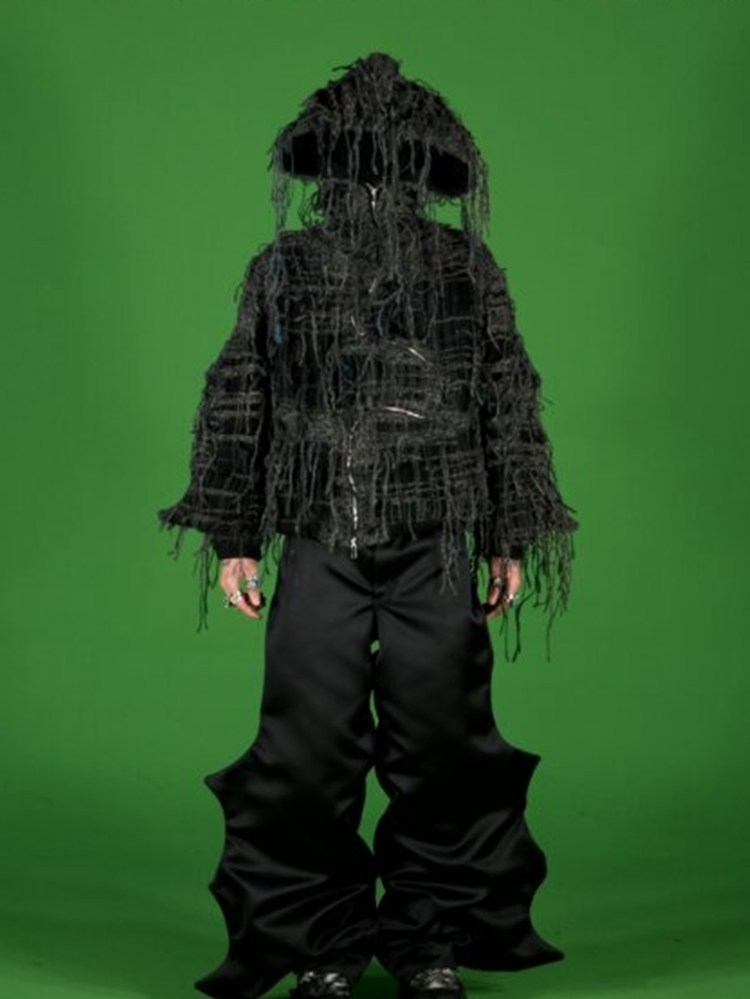
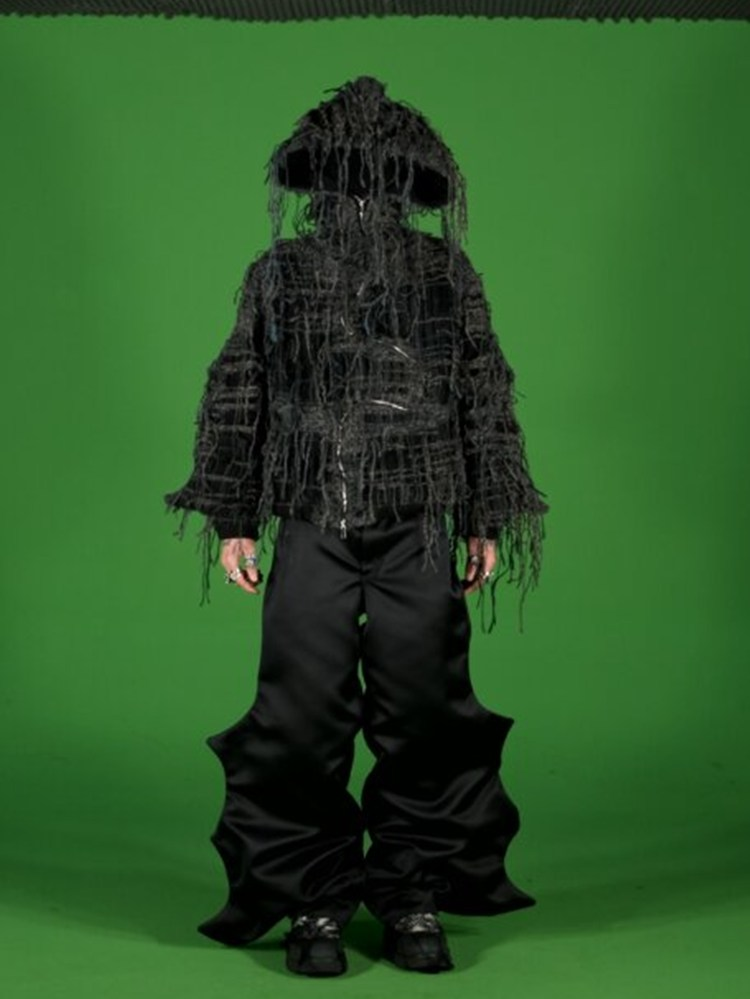
Corrige le vrai recadrage VGTHM, détoure 7 photos couture/aéro, ajuste la lightbox
- Le recadrage précédent des 5 tenues VGTHM coupait les pieds (mesure
  de la position du sujet fausse sur t4/t5, à une distance caméra
  différente des trois premières). Remesuré précisément sur les
  images originales (récupérées depuis git) et recadré à nouveau :
  les 5 tenues montrent maintenant le corps entier avec marge.
- Détouré les 7 photos couture/aéro qui avaient un vrai fond blanc
  studio (pas un bug CSS) : piece1,2,3,7,8,9,10. Vérifié pixel par
  pixel qu'aucun trou n'a été percé dans les vêtements (y compris les
  deux pièces claires, plus à risque) avant de remplacer les JPG par
  des PNG détourés. Les 3 photos sur fond noir (4,5,6) restent
  inchangées.
- bag_cutout.png et sac_a_dos.png étaient la même pièce en double
  (une capture Photoshop plus ancienne, moins propre) — gardé
  seulement sac_a_dos.png.
- Lightbox : cliquer n'immobilise plus l'ouverture — bouger la souris
  ferme maintenant aussi bien après un clic qu'après un survol.
  Remis la carte de présentation claire une fois zoomé sur un
  détourage (armes, sacoches, pièces aéro), tout en gardant les
  rangées de défilement entièrement transparentes tant qu'on n'a pas
  cliqué — c'est la distinction que je n'avais pas bien saisie avant.

Changed region(s): [[0.0, 0.0, 1.0, 1.0]]

diff --git a/index.html b/index.html
@@ -224,13 +224,11 @@
             <button class="marquee-item contain" data-src="assets/vgtape/arme1.png"><img src="assets/vgtape/arme1.png" alt=""></button>
             <button class="marquee-item contain" data-src="assets/vgtape/cd_cover.png"><img src="assets/vgtape/cd_cover.png" alt=""></button>
             <button class="marquee-item contain" data-src="assets/vgtape/sac_a_dos.png"><img src="assets/vgtape/sac_a_dos.png" alt=""></button>
-            <button class="marquee-item contain" data-src="assets/vgtape/bag_cutout.png"><img src="assets/vgtape/bag_cutout.png" alt=""></button>
             <button class="marquee-item contain" data-src="assets/vgtape/cd_disc.png"><img src="assets/vgtape/cd_disc.png" alt=""></button>
             <button class="marquee-item contain" data-src="assets/vgtape/arme2.png"><img src="assets/vgtape/arme2.png" alt=""></button>
             <button class="marquee-item contain" data-src="assets/vgtape/arme1.png"><img src="assets/vgtape/arme1.png" alt=""></button>
             <button class="marquee-item contain" data-src="assets/vgtape/cd_cover.png"><img src="assets/vgtape/cd_cover.png" alt=""></button>
             <button class="marquee-item contain" data-src="assets/vgtape/sac_a_dos.png"><img src="assets/vgtape/sac_a_dos.png" alt=""></button>
-            <button class="marquee-item contain" data-src="assets/vgtape/bag_cutout.png"><img src="assets/vgtape/bag_cutout.png" alt=""></button>
             <button class="marquee-item contain" data-src="assets/vgtape/cd_disc.png"><img src="assets/vgtape/cd_disc.png" alt=""></button>
             <button class="marquee-item contain" data-src="assets/vgtape/arme2.png"><img src="assets/vgtape/arme2.png" alt=""></button>
           </div>
@@ -307,23 +305,23 @@
           <div class="marquee-track">
             <button class="marquee-item contain" data-src="assets/aerovrac/piece11.png"><img src="assets/aerovrac/piece11.png" alt=""></button>
             <button class="marquee-item" data-src="assets/aerovrac/piece4.jpg"><img src="assets/aerovrac/piece4.jpg" alt=""></button>
-            <button class="marquee-item" data-src="assets/aerovrac/piece1.jpg"><img src="assets/aerovrac/piece1.jpg" alt=""></button>
+            <button class="marquee-item contain" data-src="assets/aerovrac/piece1.png"><img src="assets/aerovrac/piece1.png" alt=""></button>
             <button class="marquee-item contain" data-src="assets/aerovrac/piece18.png"><img src="assets/aerovrac/piece18.png" alt=""></button>
-            <button class="marquee-item" data-src="assets/aerovrac/piece2.jpg"><img src="assets/aerovrac/piece2.jpg" alt=""></button>
-            <button class="marquee-item" data-src="assets/aerovrac/piece7.jpg"><img src="assets/aerovrac/piece7.jpg" alt=""></button>
+            <button class="marquee-item contain" data-src="assets/aerovrac/piece2.png"><img src="assets/aerovrac/piece2.png" alt=""></button>
+            <button class="marquee-item contain" data-src="assets/aerovrac/piece7.png"><img src="assets/aerovrac/piece7.png" alt=""></button>
             <button class="marquee-item contain" data-src="assets/aerovrac/piece13.png"><img src="assets/aerovrac/piece13.png" alt=""></button>
             <button class="marquee-item contain" data-src="assets/aerovrac/piece20.png"><img src="assets/aerovrac/piece20.png" alt=""></button>
-            <button class="marquee-item" data-src="assets/aerovrac/piece3.jpg"><img src="assets/aerovrac/piece3.jpg" alt=""></button>
+            <button class="marquee-item contain" data-src="assets/aerovrac/piece3.png"><img src="assets/aerovrac/piece3.png" alt=""></button>
             <button class="marquee-item contain" data-src="assets/aerovrac/piece17.png"><img src="assets/aerovrac/piece17.png" alt=""></button>
             <button class="marquee-item contain" data-src="assets/aerovrac/piece11.png"><img src="assets/aerovrac/piece11.png" alt=""></button>
             <button class="marquee-item" data-src="assets/aerovrac/piece4.jpg"><img src="assets/aerovrac/piece4.jpg" alt=""></button>
-            <button class="marquee-item" data-src="assets/aerovrac/piece1.jpg"><img src="assets/aerovrac/piece1.jpg" alt=""></button>
+            <button class="marquee-item contain" data-src="assets/aerovrac/piece1.png"><img src="assets/aerovrac/piece1.png" alt=""></button>
             <button class="marquee-item contain" data-src="assets/aerovrac/piece18.png"><img src="assets/aerovrac/piece18.png" alt=""></button>
-            <button class="marquee-item" data-src="assets/aerovrac/piece2.jpg"><img src="assets/aerovrac/piece2.jpg" alt=""></button>
-            <button class="marquee-item" data-src="assets/aerovrac/piece7.jpg"><img src="assets/aerovrac/piece7.jpg" alt=""></button>
+            <button class="marquee-item contain" data-src="assets/aerovrac/piece2.png"><img src="assets/aerovrac/piece2.png" alt=""></button>
+            <button class="marquee-item contain" data-src="assets/aerovrac/piece7.png"><img src="assets/aerovrac/piece7.png" alt=""></button>
             <button class="marquee-item contain" data-src="assets/aerovrac/piece13.png"><img src="assets/aerovrac/piece13.png" alt=""></button>
             <button class="marquee-item contain" data-src="assets/aerovrac/piece20.png"><img src="assets/aerovrac/piece20.png" alt=""></button>
-            <button class="marquee-item" data-src="assets/aerovrac/piece3.jpg"><img src="assets/aerovrac/piece3.jpg" alt=""></button>
+            <button class="marquee-item contain" data-src="assets/aerovrac/piece3.png"><img src="assets/aerovrac/piece3.png" alt=""></button>
             <button class="marquee-item contain" data-src="assets/aerovrac/piece17.png"><img src="assets/aerovrac/piece17.png" alt=""></button>
           </div>
         </div>
@@ -332,23 +330,23 @@
             <button class="marquee-item contain" data-src="assets/aerovrac/piece12.png"><img src="assets/aerovrac/piece12.png" alt=""></button>
             <button class="marquee-item" data-src="assets/aerovrac/piece5.jpg"><img src="assets/aerovrac/piece5.jpg" alt=""></button>
             <button class="marquee-item contain" data-src="assets/aerovrac/piece14.png"><img src="assets/aerovrac/piece14.png" alt=""></button>
-            <button class="marquee-item" data-src="assets/aerovrac/piece8.jpg"><img src="assets/aerovrac/piece8.jpg" alt=""></button>
+            <button class="marquee-item contain" data-src="assets/aerovrac/piece8.png"><img src="assets/aerovrac/piece8.png" alt=""></button>
             <button class="marquee-item contain" data-src="assets/aerovrac/piece15.png"><img src="assets/aerovrac/piece15.png" alt=""></button>
-            <button class="marquee-item" data-src="assets/aerovrac/piece9.jpg"><img src="assets/aerovrac/piece9.jpg" alt=""></button>
+            <button class="marquee-item contain" data-src="assets/aerovrac/piece9.png"><img src="assets/aerovrac/piece9.png" alt=""></button>
             <button class="marquee-item contain" data-src="assets/aerovrac/piece19.png"><img src="assets/aerovrac/piece19.png" alt=""></button>
             <button class="marquee-item" data-src="assets/aerovrac/piece6.jpg"><img src="assets/aerovrac/piece6.jpg" alt=""></button>
             <button class="marquee-item contain" data-src="assets/aerovrac/piece16.png"><img src="assets/aerovrac/piece16.png" alt=""></button>
-            <button class="marquee-item" data-src="assets/aerovrac/piece10.jpg"><img src="assets/aerovrac/piece10.jpg" alt=""></button>
+            <button class="marquee-item contain" data-src="assets/aerovrac/piece10.png"><img src="assets/aerovrac/piece10.png" alt=""></button>
             <button class="marquee-item contain" data-src="assets/aerovrac/piece12.png"><img src="assets/aerovrac/piece12.png" alt=""></button>
             <button class="marquee-item" data-src="assets/aerovrac/piece5.jpg"><img src="assets/aerovrac/piece5.jpg" alt=""></button>
             <button class="marquee-item contain" data-src="assets/aerovrac/piece14.png"><img src="assets/aerovrac/piece14.png" alt=""></button>
-            <button class="marquee-item" data-src="assets/aerovrac/piece8.jpg"><img src="assets/aerovrac/piece8.jpg" alt=""></button>
+            <button class="marquee-item contain" data-src="assets/aerovrac/piece8.png"><img src="assets/aerovrac/piece8.png" alt=""></button>
             <button class="marquee-item contain" data-src="assets/aerovrac/piece15.png"><img src="assets/aerovrac/piece15.png" alt=""></button>
-            <button class="marquee-item" data-src="assets/aerovrac/piece9.jpg"><img src="assets/aerovrac/piece9.jpg" alt=""></button>
+            <button class="marquee-item contain" data-src="assets/aerovrac/piece9.png"><img src="assets/aerovrac/piece9.png" alt=""></button>
             <button class="marquee-item contain" data-src="assets/aerovrac/piece19.png"><img src="assets/aerovrac/piece19.png" alt=""></button>
             <button class="marquee-item" data-src="assets/aerovrac/piece6.jpg"><img src="assets/aerovrac/piece6.jpg" alt=""></button>
             <button class="marquee-item contain" data-src="assets/aerovrac/piece16.png"><img src="assets/aerovrac/piece16.png" alt=""></button>
-            <button class="marquee-item" data-src="assets/aerovrac/piece10.jpg"><img src="assets/aerovrac/piece10.jpg" alt=""></button>
+            <button class="marquee-item contain" data-src="assets/aerovrac/piece10.png"><img src="assets/aerovrac/piece10.png" alt=""></button>
           </div>
         </div>
         <p class="carousel-count mono" style="margin-top:2px;">Survoler une photo pour l'agrandir</p>

diff --git a/js/marquee-lightbox.js b/js/marquee-lightbox.js
@@ -15,7 +15,6 @@ function initMarqueeLightbox() {
   var currentTrack = null;
   var closeTimer = null;
   var openTimer = null;
-  var pinned = false; // true once opened by click/tap: only closes via explicit close
 
   function isCutout(item) {
     return item.contain && /\.png($|\?)/i.test(item.src);
@@ -49,7 +48,6 @@ function initMarqueeLightbox() {
     document.body.style.overflow = '';
     if (currentTrack) currentTrack.classList.remove('paused');
     currentTrack = null;
-    pinned = false;
   }
 
   function scheduleOpen(list, index, track) {
@@ -65,7 +63,6 @@ function initMarqueeLightbox() {
 
   function scheduleClose() {
     cancelScheduledOpen();
-    if (pinned) return;
     clearTimeout(closeTimer);
     closeTimer = setTimeout(close, 130);
   }
@@ -130,7 +127,6 @@ function initMarqueeLightbox() {
 
       if (canHover && hoverEnabled) {
         el.addEventListener('mouseenter', function () {
-          pinned = false;
           scheduleOpen(uniqueItems, indexOfSrc(uniqueItems, getSrc(el)), track);
         });
         el.addEventListener('mouseleave', scheduleClose);
@@ -139,10 +135,12 @@ function initMarqueeLightbox() {
         el.addEventListener('pointerdown', cancelScheduledOpen);
       }
 
+      // Click opens instantly (skips the hover-intent delay). It behaves just
+      // like hover otherwise — moving the mouse away still closes it, so the
+      // interaction stays consistent whichever way it was opened.
       el.addEventListener('click', function () {
         cancelScheduledOpen();
         open(uniqueItems, indexOfSrc(uniqueItems, getSrc(el)), track);
-        pinned = true;
       });
     });
   }

diff --git a/css/style.css b/css/style.css
@@ -400,11 +400,15 @@ main{flex:1;min-width:0;}
 }
 .lightbox.open .lightbox-main{opacity:1;transform:scale(1);}
 .lightbox.closing .lightbox-main{transition:opacity .16s ease,transform .16s ease;}
-/* Cutout mode: transparent PNGs (armes, sacoches, sac à dos, CD...) — blurring
-   their own (mostly empty) alpha channel doesn't do anything useful, so just
-   skip that layer and let the piece float on the dark backdrop, grounded by
-   its own drop-shadow rather than a visible card behind it. */
+/* Cutout mode: transparent PNGs (armes, sacoches, sac à dos, CD, pièces
+   aéro...) get a soft presentation card once zoomed — blurring their own
+   (mostly empty) alpha channel doesn't do anything useful. Only applies in
+   the lightbox: inline in the scrolling rows these stay fully transparent. */
 .lightbox.cutout-mode .lightbox-bg-blur{opacity:0;}
+.lightbox.cutout-mode .lightbox-main{
+  background:radial-gradient(ellipse at 50% 42%,#fbfbf9 0%,#eeeeea 62%,#dfdfda 100%);
+  padding:clamp(28px,6vw,72px);border-radius:20px;box-sizing:border-box;
+}
 .lightbox-close,.lightbox-prev,.lightbox-next{
   position:absolute;z-index:3;border:none;border-radius:50%;background:rgba(255,255,255,0.12);color:#fff;
   display:flex;align-items:center;justify-content:center;cursor:pointer;backdrop-filter:blur(6px);
